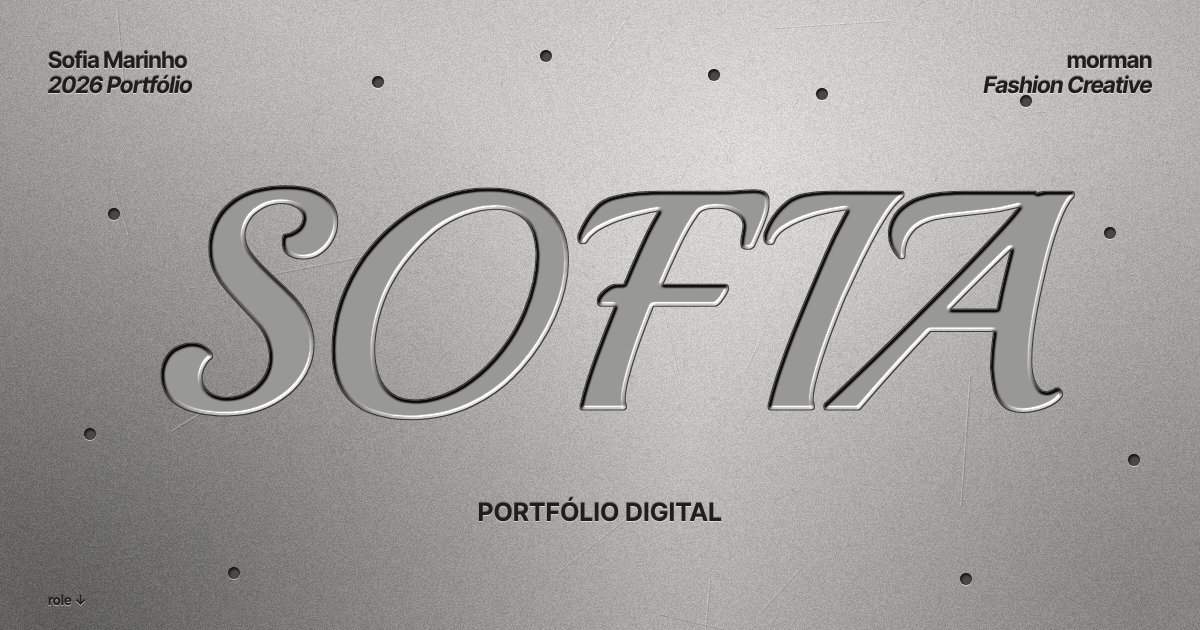
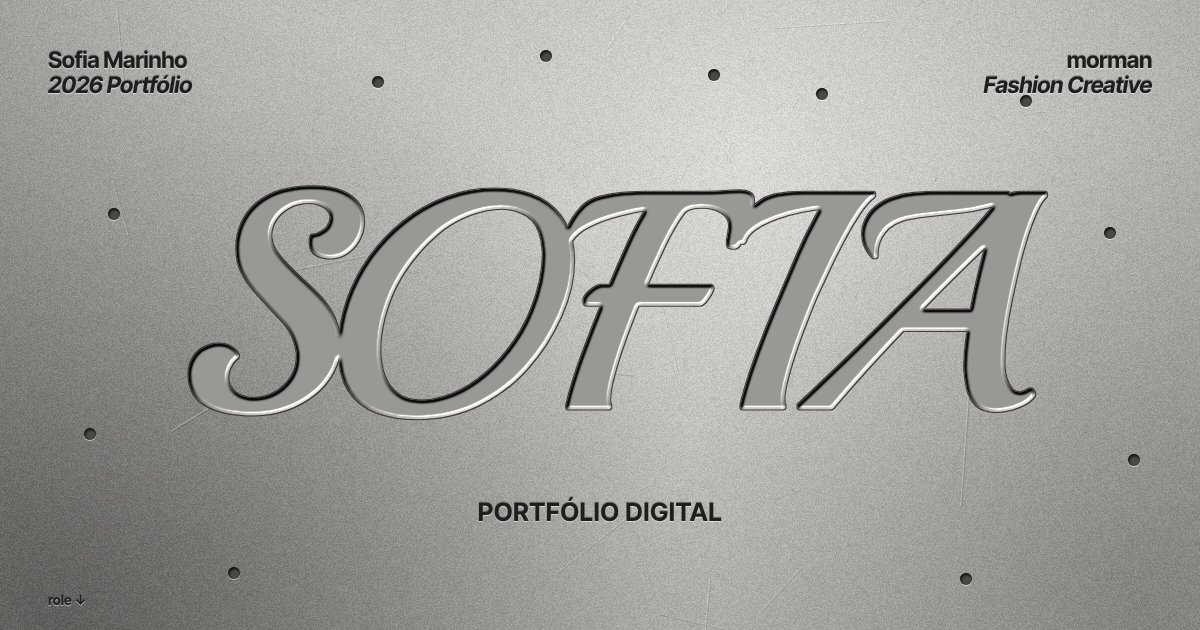
Portfólio: letras do SOFIA mais juntas na capa
Claude-Session: https://claude.ai/code/session_01TwcUAkcdnNUaJGVqTisuvo

Changed region(s): [[0.1233, 0.2714, 0.8942, 0.6635], [0.5858, 0.4524, 0.6167, 0.4825]]

diff --git a/portfolio/index.html b/portfolio/index.html
@@ -62,7 +62,7 @@
         </filter>
       </defs>
       <!-- nome provisório em fonte; será trocado pela escrita à mão da Sofia (vetorizada) -->
-      <text x="800" y="400" text-anchor="middle" font-size="440" fill="#000" stroke="#000" stroke-width="9" stroke-linejoin="round" filter="url(#engrave)">SOFIA</text>
+      <text x="800" y="400" text-anchor="middle" dx="0 -30 -30 -20 2" font-size="440" fill="#000" stroke="#000" stroke-width="9" stroke-linejoin="round" filter="url(#engrave)">SOFIA</text>
     </svg>
     <p class="plate__sub emb" aria-hidden="true">Portfólio Digital</p>
     </div>
